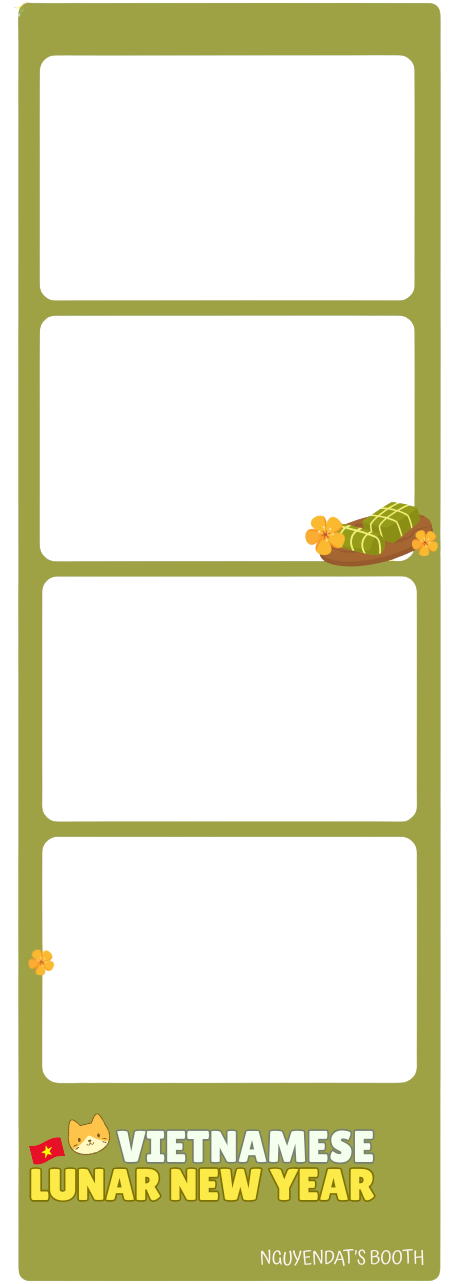
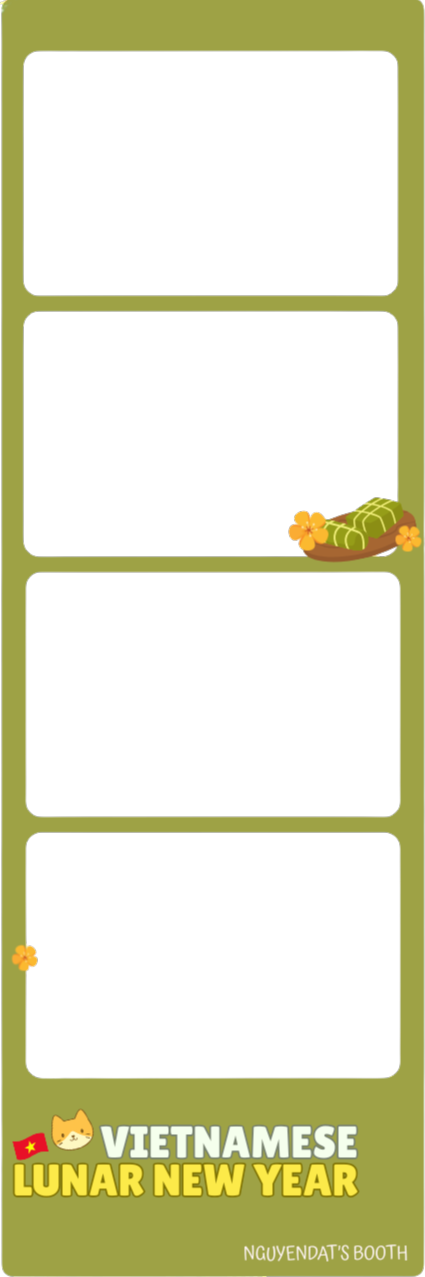
edit layout

Changed region(s): [[0.0, 0.0, 1.0, 1.0]]

diff --git a/Javascript/upload.js b/Javascript/upload.js
@@ -17,10 +17,10 @@ let camera_width, camera_height;
 let gap = 0, gapX = 0, gapY = 0;
 const totalFrames = 4;
 
-if (datatype === 'portrait') {
+if (datatype === 'vertical') {
     CANVAS_WIDTH = 295;
     CANVAS_HEIGHT = 900;
-    camera_width = 245;
+    camera_width = 265;
     camera_height = 182;
     gap = 180;
 
@@ -29,11 +29,10 @@ if (datatype === 'portrait') {
 } else {
     CANVAS_WIDTH = 880;
     CANVAS_HEIGHT = 800;
-    camera_width = 400;
-    camera_height = 279;
-    gapX = 420;
-    gapY = 280;
-
+    camera_width = 403;
+    camera_height = 283;
+    gapX = 428;
+    gapY = 295;
     cameraWrapper.style.width = CANVAS_WIDTH + 'px';
     cameraWrapper.style.height = 750 + 'px';
 }
@@ -77,7 +76,7 @@ function renderCanvasAll() {
         ctx.drawImage(
             p.img,
             p.x,
-            p.y,
+            p.y ,
             p.img.width * p.scale,
             p.img.height * p.scale
         );
@@ -99,7 +98,7 @@ function renderCanvasAll() {
 
 /* ================== POSITION LOGIC (GIỐNG camera.js) ================== */
 function getFramePosition(index) {
-    if (datatype === 'portrait') {
+    if (datatype === 'vertical') {
         return {
             x: (CANVAS_WIDTH - cropW) / 2,
             y: 40 + index * gap
@@ -107,13 +106,12 @@ function getFramePosition(index) {
     }
 
     // square
-    if (index === 0) return { x: 25, y: 40 };
-    if (index === 1) return { x: 25 + gapX, y: 40 };
-    if (index === 2) return { x: 25 + gapX, y: 40 + gapY };
-    if (index === 3) return { x: 25, y: 40 + gapY };
+    if (index === 0) return { x: 25, y: 33 };
+    if (index === 1) return { x: 25 + gapX, y: 33 };
+    if (index === 2) return { x: 25 + gapX, y: 33 + gapY };
+    if (index === 3) return { x: 25, y: 33 + gapY };
 }
 
-/* ================== UPLOAD ================== */
 const fileInput = document.getElementById('fileInput');
 const uploadButton = document.getElementById('uploadButton');
 
@@ -134,8 +132,10 @@ fileInput.onchange = e => {
 
             const scale = Math.max(
                 cropW / img.width,
-                cropH / img.height
+                cropH / img.height 
             );
+
+           
 
             uploadedPhotos.push({
                 img,
@@ -143,7 +143,7 @@ fileInput.onchange = e => {
                 x: pos.x,
                 y: pos.y,
                 cropX: pos.x,
-                cropY: pos.y
+                cropY: pos.y ,
             });
 
             renderCanvasAll();
@@ -245,8 +245,6 @@ function finalizeToEdit() {
         startEditingSystem();
     }
 }
-
-/* ================== UTIL ================== */
 function getPos(e) {
     const rect = canvas.getBoundingClientRect();
     const cx = e.touches ? e.touches[0].clientX : e.clientX;
@@ -256,8 +254,6 @@ function getPos(e) {
         y: (cy - rect.top) * (CANVAS_HEIGHT / rect.height)
     };
 }
-
-/* ================== RESET ================== */
 document.getElementById('ResetBtn').onclick = () => {
     if (typeof stickersInCanvas !== 'undefined') {
         stickersInCanvas.length = 0;

diff --git a/Javascript/camera.js b/Javascript/camera.js
@@ -19,10 +19,10 @@ const totalFrames = 4;
 let CANVAS_WIDTH, CANVAS_HEIGHT;
 let camera_width, camera_height;
 
-if(datatype ==  'portrait'){
+if(datatype ==  'vertical'){
     CANVAS_WIDTH = 295;
     CANVAS_HEIGHT = 900;
-    camera_width = 245;
+    camera_width = 265;
     camera_height = 182;
     cameraWrapper.style.width = 295 + 'px';
     cameraWrapper.style.height = 900 + 'px';  
@@ -30,12 +30,12 @@ if(datatype ==  'portrait'){
 }else{
     CANVAS_WIDTH = 880;
     CANVAS_HEIGHT = 800;
-    camera_width = 400;
-    camera_height = 279;
+    camera_width = 403;
+    camera_height = 283;
     cameraWrapper.style.width = 880+ 'px';
     cameraWrapper.style.height = 750 + 'px';
-    gapY= 280;
-    gapX = 420;
+    gapY= 295;
+    gapX = 428;
 }
 
 function loadFrameFromUrl() {
@@ -58,8 +58,8 @@ async function setupCamera() {
     const constraints = {
         video: { 
             facingMode: "user",
-            width: { ideal: datatype === 'portrait' ? 245 : 400 },
-            height: { ideal: datatype === 'portrait' ? 182 : 279 }
+            width: { ideal: datatype === 'vertical' ? 265 : 403 },
+            height: { ideal: datatype === 'vertical' ? 182 : 283 }
         },
         audio: false
     };
@@ -139,47 +139,9 @@ function capturePhoto() {
         completeButton.addEventListener('click',finalizeStrip);
     }
 }
-
-
-
-/*function capturePhoto() {
-    const canvas = document.getElementById('photoCanvas');
-    const ctx = canvas.getContext('2d');
-    
-     
-    const vDisplayWidth = camera_width;
-    const vDisplayHeight = camera_height;
-    const vDisplayLeft = video.offsetLeft;
-    const vDisplayTop = video.offsetTop;
-
-    if (total == 0) {
-        canvas.width = CANVAS_WIDTH;
-        canvas.style.height = CANVAS_HEIGHT;
-    }
-    // 2. Vẽ lên Canvas
-    ctx.save();
-    ctx.translate(vDisplayLeft + vDisplayWidth, vDisplayTop);
-    ctx.scale(-1, 1); // Hiệu ứng lật gương
-
-    ctx.drawImage(
-        video,           
-        0, 0, vDisplayWidth, vDisplayHeight // VẼ vào đúng kích thước ô chứa
-    );
-    ctx.restore();
-    
-
-    total++;
-    if (total < totalFrames) {
-        moveCameraToNextFrame(vDisplayTop,vDisplayLeft,total,datatype);
-    } else {
-        setTimeout(() => {
-            finalizeStrip();
-        }, 100);
-    }
-}*/
 function moveCameraToNextFrame(currentTop,currentLeft,total,data_type) {
     // Di chuyển video preview xuống ô tiếp theo
-    if(data_type == 'portrait'){
+    if(data_type == 'vertical'){
     const nextY = currentTop + gap; 
     video.style.top = nextY + "px";
     }else{

diff --git a/StyleCSS/camera.css b/StyleCSS/camera.css
@@ -68,10 +68,10 @@ body.square #photoCanvas {
 
 body.portrait #video {
     position: absolute;
-    width: 245px;
+    width: 265px;
     height: 182px;
-    left: 25px;
-    top: 40px;
+    left: 13px;
+    top: 38px;
     z-index: 2;
     border-radius: 10px;
     object-fit: cover;
@@ -79,10 +79,10 @@ body.portrait #video {
 }
 body.square #video {
     position: absolute;
-    width: 400px;
-    height: 279px;
+    width: 403px;
+    height: 283px;
     left: 25px;
-    top: 40px;
+    top: 33px;
     z-index: 2;
     border-radius: 10px;
     object-fit: cover;
@@ -225,6 +225,16 @@ button:active{
     padding: 8px 20px;
     cursor: pointer;
     /* Xóa bỏ hoàn toàn top, left, transform cũ ở đây */
+}
+button:hover {
+    transform: scale(1.05);
+    filter: brightness(1.1);
+}
+
+button:active {
+    padding-bottom: 0;
+    margin-bottom: 8px;     /* Bù trừ padding để không bị nhảy layout */
+    transform: translateY(8px);
 }
 
 /* Thẻ chứa Canvas mới của bạn */

diff --git a/select-Frame.html b/select-Frame.html
@@ -17,18 +17,17 @@
         
         <img src="image-home/home.png" alt="Background Tết" />
         <section class="content">
-            <!-- Thêm thanh lướt chọn khung (slider) dưới nhân vật -->
             <h2 class="select-title">Select frame</h2>
             <div class="menu-group">
                 <div class="filter-buttons">
                     <div class="filter-btn" data-filter="square">
-                        <span>Khung vuông</span>
+                        <span>Square</span>
                     </div>
                 </div>
 
                 <div class="filter-buttons">
-                    <div class="filter-btn" data-filter="portrait">
-                        <span>Khung dọc</span>
+                    <div class="filter-btn" data-filter="vertical">
+                        <span>Vertical</span>
                     </div>
                 </div>
             </div>

diff --git a/StyleCSS/upload.css b/StyleCSS/upload.css
@@ -69,7 +69,6 @@ body.square #photoCanvas {
     position: absolute;
     top: 0;
     left: 0;
-    
     z-index: 5;
     pointer-events: none;
 }
@@ -180,6 +179,16 @@ body.square #photoCanvas {
     padding: 8px 20px;
     cursor: pointer;
     /* Xóa bỏ hoàn toàn top, left, transform cũ ở đây */
+}
+button:hover {
+    transform: scale(1.05);
+    filter: brightness(1.1);
+}
+
+button:active {
+    padding-bottom: 0;
+    margin-bottom: 8px;     /* Bù trừ padding để không bị nhảy layout */
+    transform: translateY(8px);
 }
 /* Thẻ chứa Canvas mới của bạn */
 #editcanvas {
